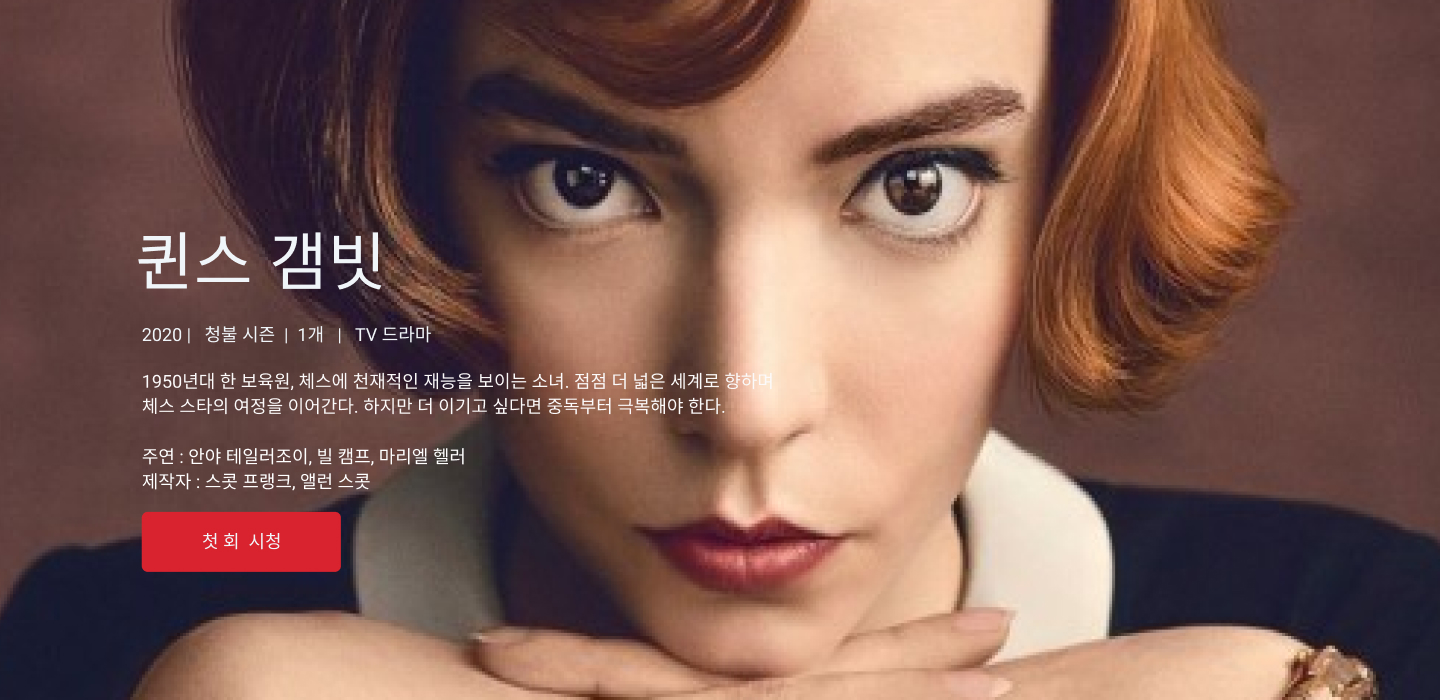
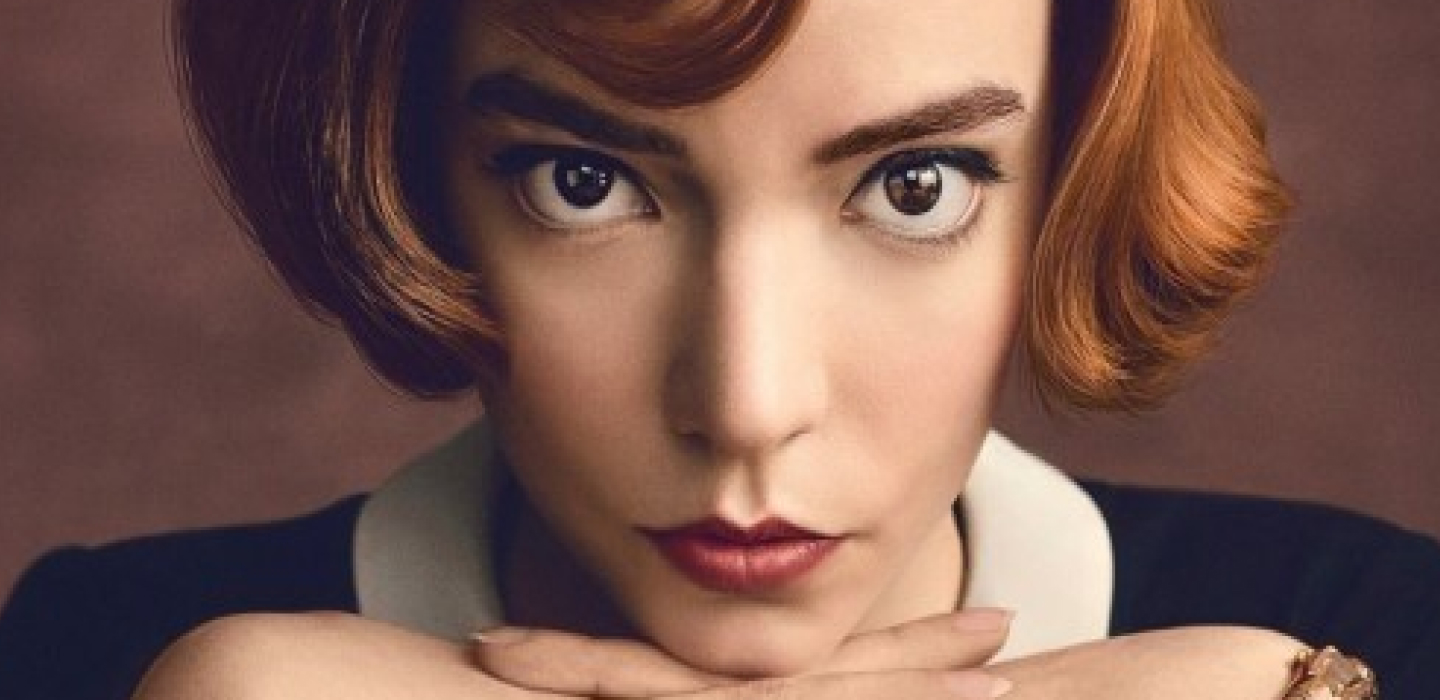
queens1

diff --git a/index.html b/index.html
@@ -25,12 +25,23 @@
     <!-- slide -->
     <div class="slide_container">
       <div class="container slide">
-        <h2>Make something<br />awesome</h2>
+        <h2>퀸스 갬빗</h2>
         <p>
-          Help us shape the future of freely usable imagery—powered by a<br />
-          community of millions of creators.
+          2020 |   청불 시즌  |  1개   |   TV 드라마
         </p>
-        <a href="#" class="slide_btn">Start free trial</a>
+
+      <p>
+        1950년대 한 보육원, 체스에 천재적인 재능을 보이는 소녀. 점점 더 넓은 세계로 향하며 <br />
+        체스 스타의 여정을 이어간다. 하지만 더 이기고 싶다면 중독부터 극복해야 한다.
+      </p>
+
+      <p>
+        주연 : 안야 테일러조이, 빌 캠프, 마리엘 헬러 <br />
+        제작자 : 스콧 프랭크, 앨런 스콧 
+      </p>
+
+
+        <a href="#" class="slide_btn">첫 회 시청</a>
       </div>
     </div>
 
@@ -38,14 +49,14 @@
       <!-- section_01 -->
       <div class="section sec_01">
         <div class="container">
-          <h4>The internet’s source of freely usable images.</h4>
+          <h4>퀸스 갬빗의 주요 인물들</h4>
           <div class="avatar">
-            <div><img src="./images/avator_01.png" alt="아바타" /></div>
-            <div><img src="./images/avator_02.png" alt="아바타" /></div>
-            <div><img src="./images/avator_03.png" alt="아바타" /></div>
-            <div><img src="./images/avator_04.png" alt="아바타" /></div>
-            <div><img src="./images/avator_05.png" alt="아바타" /></div>
-            <div><img src="./images/avator_06.png" alt="아바타" /></div>
+            <div><img src="./images/avatar_01.png" alt="아바타" /></div>
+            <div><img src="./images/avatar_02.png" alt="아바타" /></div>
+            <div><img src="./images/avatar_03.png" alt="아바타" /></div>
+            <div><img src="./images/avatar_04.png" alt="아바타" /></div>
+            <div><img src="./images/avatar_05.png" alt="아바타" /></div>
+            <div><img src="./images/avatar_06.png" alt="아바타" /></div>
           </div>
         </div>
       </div>
@@ -54,22 +65,16 @@
       <div class="section sec_02">
         <div class="container">
           <div class="text">
-            <h4>Institutions join Unsplash</h4>
+            <h4>9살의 베스</h4>
             <p class="txt_01">
-              We launched Unsplash for Brands, a new kind of advertising for the
-              internet. One that doesn't have to be annoying or creepy to work.
+              샤이벌 아저씨와 지하에서 처음 체스를 두게 되었던 장면.
+              처음에는 아저씨와 겨루며 생각할 겨를도 없이 빠르게 지게 되고,
+              기권하는 예의도 배우게 된다. 
+              이때 이후에 체스에 매료 되어 머리 속에서 체스를 계속 두게 된다. 
             </p>
-            <p class="txt_02">
-              Lorem ipsum dolor sit amet, consectetur adipiscing elit, sed do
-              eiusmod tempor incididunt ut labore et dolore magna aliqua.
-            </p>
-            <div class="avatar">
-              <img src="./images/avator_05.png" alt="아바타" />
-              <span>Dhaka Oke, Product Designer</span>
-            </div>
           </div>
           <div class="photo">
-            <img src="./images/photo_01.png" alt="" />
+            <img src="./images/photo_01.jpg" alt="9살" />
           </div>
         </div>
       </div>

diff --git a/css/main.css b/css/main.css
@@ -67,7 +67,7 @@ img {
 /* slide */
 .slide_container {
   height: 700px;
-  background: url("../images/bg_01.jpg") no-repeat;
+  background: url("../images/bg1.jpg") no-repeat;
   background-position: center;
   background-size: cover;
   color: #fff;
@@ -87,7 +87,7 @@ img {
 
 .slide_container p {
   font-size: 18px;
-  padding: 30px 0 36px;
+  padding: 20px 0 26px;
   line-height: 1.6;
 }
 
